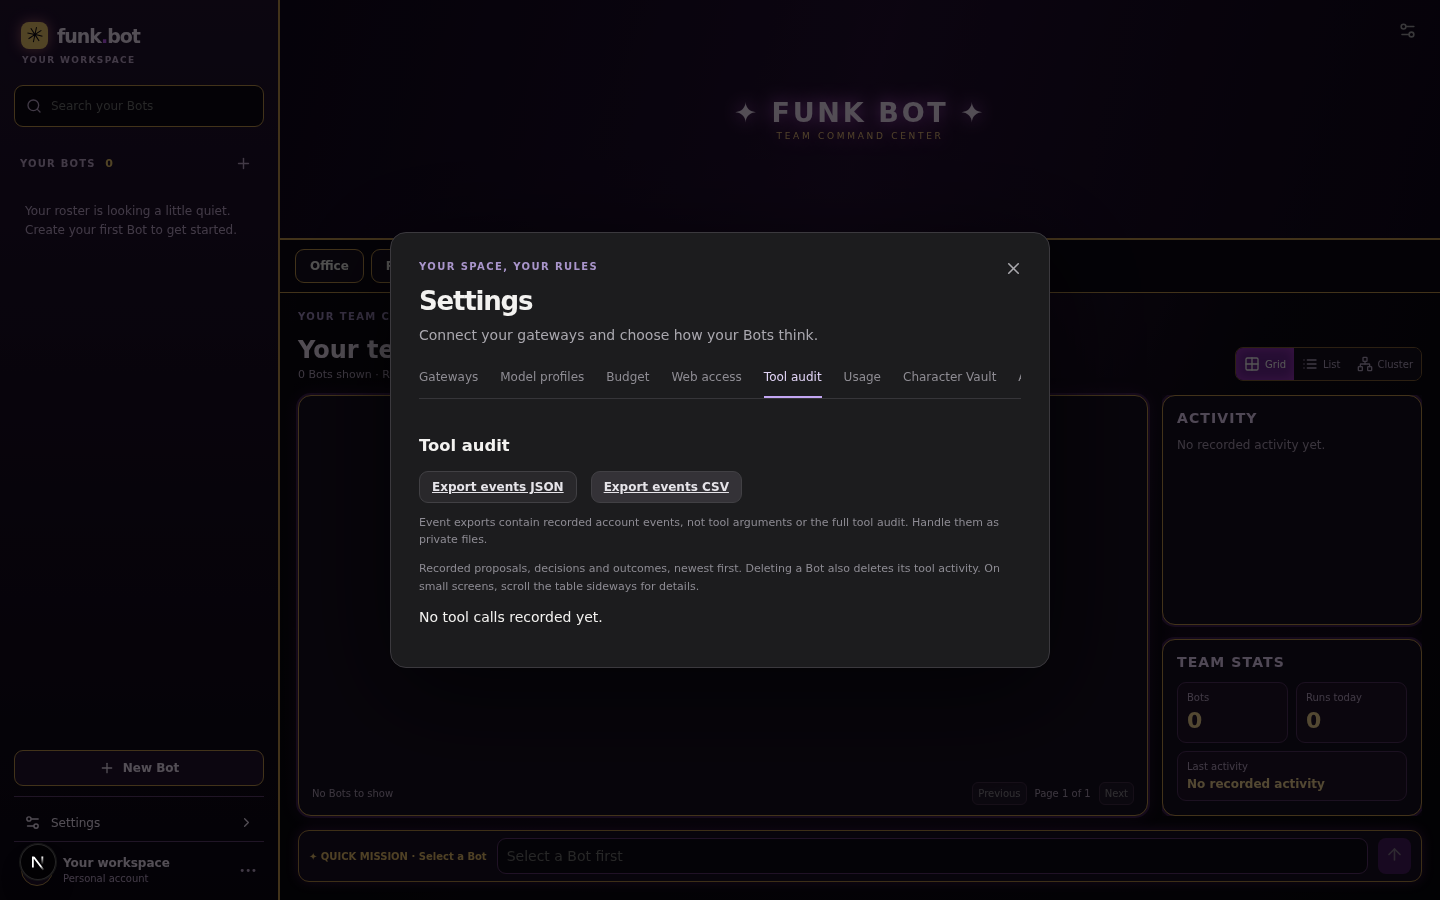
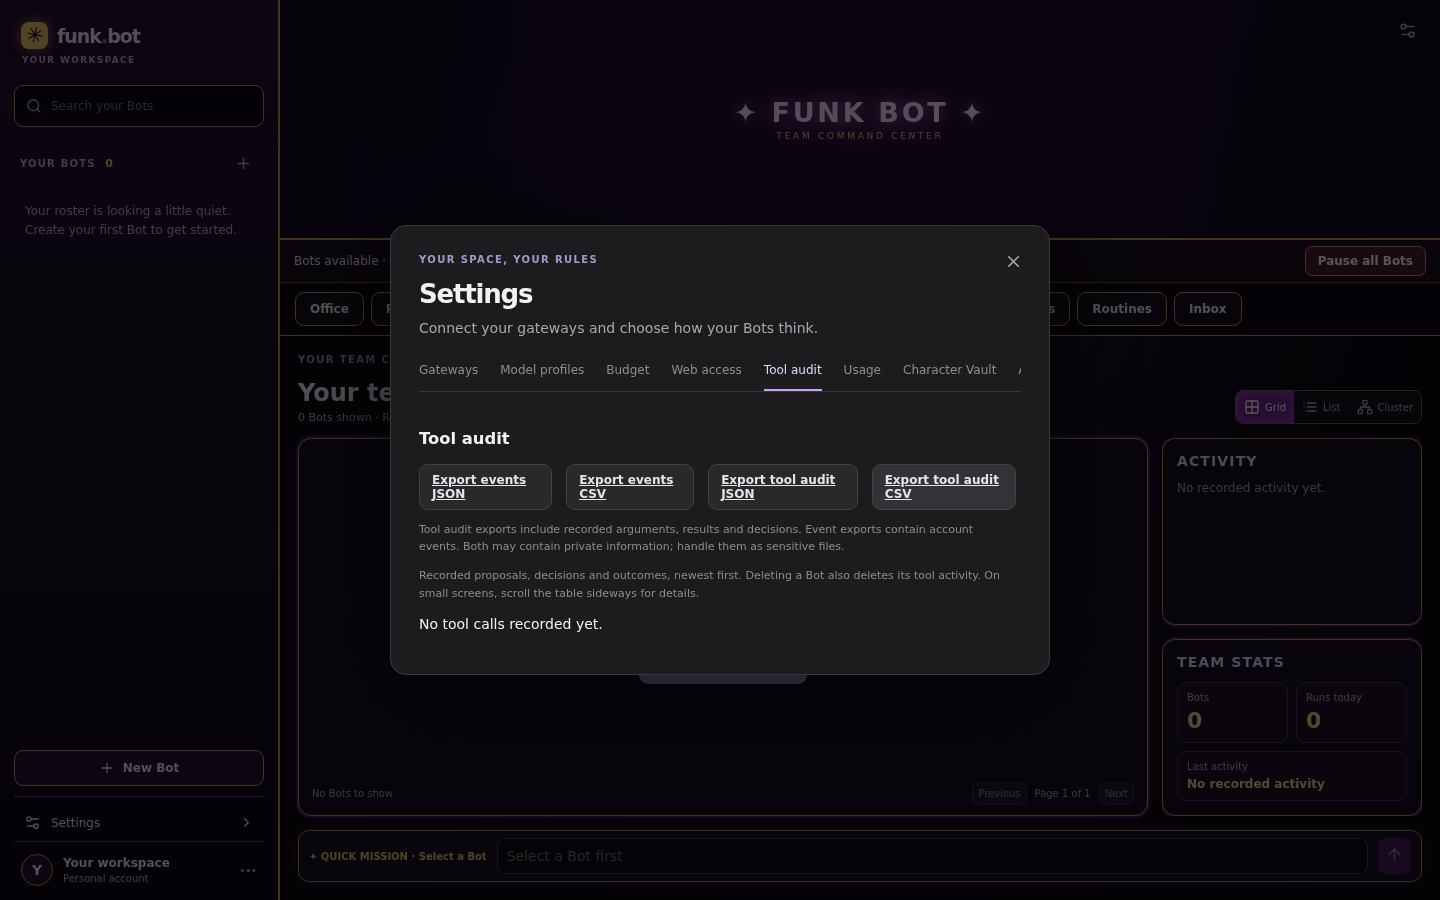
Export tool audit with decision history

diff --git a/frontend/components/team/ToolAuditSettings.tsx b/frontend/components/team/ToolAuditSettings.tsx
@@ -11,5 +11,5 @@ export default function ToolAuditSettings(){
  const [calls,setCalls]=useState<AuditCall[]>([]),[bots,setBots]=useState<TeamBot[]>([]),[next,setNext]=useState<number|null>(null),[loaded,setLoaded]=useState(false),[busy,setBusy]=useState(false),[error,setError]=useState('');
  useEffect(()=>{let active=true;Promise.all([request('/tool-audit'),request('/bots')]).then(([page,roster]:[Page,TeamBot[]])=>{if(active){setCalls(page.calls);setNext(page.next_before);setBots(roster);setLoaded(true)}}).catch(e=>{if(active)setError(e.message)});return()=>{active=false}},[]);
  async function more(){if(!next)return;setBusy(true);setError('');try{const page:Page=await request('/tool-audit?before='+next);setCalls(v=>[...v,...page.calls]);setNext(page.next_before)}catch(e){setError((e as Error).message)}finally{setBusy(false)}}
- return <div className="settings-body audit-settings"><h3>Tool audit</h3><div className="gateway-actions"><a className="secondary" href="/api/events/export?format=json" download>Export events JSON</a> <a className="secondary" href="/api/events/export?format=csv" download>Export events CSV</a></div><p className="field-hint">Event exports contain recorded account events, not tool arguments or the full tool audit. Handle them as private files.</p><p className="field-hint">Recorded proposals, decisions and outcomes, newest first. Deleting a Bot also deletes its tool activity. On small screens, scroll the table sideways for details.</p>{error&&<p className="error" role="alert">{error}</p>}{!loaded&&!error?<p>Loading tool audit…</p>:!calls.length?<p>No tool calls recorded yet.</p>:<><div className="audit-table-wrap"><table className="audit-table"><thead><tr><th>Bot</th><th>Tool</th><th>Status</th><th>Time</th><th>Details</th></tr></thead><tbody>{calls.map(call=>{const bot=bots.find(item=>item.id===call.bot_id);return <tr key={call.id}><td>{bot?<div className="budget-identity"><Avatar bot={bot} size="small"/><span><strong>{bot.name}</strong><small>{bot.title||'No job title'}</small></span></div>:<span>Deleted Bot</span>}</td><td>{call.tool_name}</td><td>{call.status}</td><td>{new Date(call.created_at*1000).toLocaleString()}</td><td><details><summary>View</summary><strong>Arguments</strong><pre>{JSON.stringify(call.arguments,null,2)}</pre>{call.result!=null&&<><strong>Result</strong><pre>{JSON.stringify(call.result,null,2)}</pre></>}<strong>Audit trail</strong><ul>{call.audit.map((entry,index)=><li key={index}>{entry.action.replaceAll('_',' ')} · {new Date(entry.created_at*1000).toLocaleString()}</li>)}</ul></details></td></tr>})}</tbody></table></div>{next&&<button className="secondary" disabled={busy} onClick={()=>void more()}>{busy?'Loading…':'Load older activity'}</button>}</>}</div>
+ return <div className="settings-body audit-settings"><h3>Tool audit</h3><div className="gateway-actions"><a className="secondary" href="/api/events/export?format=json" download>Export events JSON</a> <a className="secondary" href="/api/events/export?format=csv" download>Export events CSV</a> <a className="secondary" href="/api/tool-audit/export?format=json" download>Export tool audit JSON</a> <a className="secondary" href="/api/tool-audit/export?format=csv" download>Export tool audit CSV</a></div><p className="field-hint">Tool audit exports include recorded arguments, results and decisions. Event exports contain account events. Both may contain private information; handle them as sensitive files.</p><p className="field-hint">Recorded proposals, decisions and outcomes, newest first. Deleting a Bot also deletes its tool activity. On small screens, scroll the table sideways for details.</p>{error&&<p className="error" role="alert">{error}</p>}{!loaded&&!error?<p>Loading tool audit…</p>:!calls.length?<p>No tool calls recorded yet.</p>:<><div className="audit-table-wrap"><table className="audit-table"><thead><tr><th>Bot</th><th>Tool</th><th>Status</th><th>Time</th><th>Details</th></tr></thead><tbody>{calls.map(call=>{const bot=bots.find(item=>item.id===call.bot_id);return <tr key={call.id}><td>{bot?<div className="budget-identity"><Avatar bot={bot} size="small"/><span><strong>{bot.name}</strong><small>{bot.title||'No job title'}</small></span></div>:<span>Deleted Bot</span>}</td><td>{call.tool_name}</td><td>{call.status}</td><td>{new Date(call.created_at*1000).toLocaleString()}</td><td><details><summary>View</summary><strong>Arguments</strong><pre>{JSON.stringify(call.arguments,null,2)}</pre>{call.result!=null&&<><strong>Result</strong><pre>{JSON.stringify(call.result,null,2)}</pre></>}<strong>Audit trail</strong><ul>{call.audit.map((entry,index)=><li key={index}>{entry.action.replaceAll('_',' ')} · {new Date(entry.created_at*1000).toLocaleString()}</li>)}</ul></details></td></tr>})}</tbody></table></div>{next&&<button className="secondary" disabled={busy} onClick={()=>void more()}>{busy?'Loading…':'Load older activity'}</button>}</>}</div>
 }

diff --git a/backend/app.py b/backend/app.py
@@ -2509,6 +2509,50 @@ def account_tool_audit(request: Request, before: int | None = Query(default=None
     return {'calls':calls,'next_before':calls[-1]['cursor'] if len(rows)>20 else None}
 
 
+@app.get('/api/tool-audit/export')
+def export_tool_audit(request: Request, format: Literal['json','csv']='json', bot_id: str | None = Query(default=None,max_length=128)):
+    """Export persisted calls and their ordered decision histories from one snapshot."""
+    from funkbot.tool_audit import _redact_result
+    require_auth(request)
+    keys=configured_secrets()
+    def stream():
+        with db() as c:
+            c.execute('BEGIN')
+            rows=c.execute('SELECT * FROM tool_calls WHERE (? IS NULL OR bot_id=?) ORDER BY rowid',(bot_id,bot_id))
+            fields=['id','run_id','bot_id','tool_name','risk','arguments','status','result','created_at','updated_at','audit']
+            if format=='json':
+                yield '['
+            else:
+                buffer=io.StringIO(newline='');writer=csv.DictWriter(buffer,fieldnames=fields,lineterminator='\r\n')
+                writer.writeheader();yield buffer.getvalue();buffer.seek(0);buffer.truncate(0)
+            first=True
+            for row in rows:
+                call=dict(row)
+                call['arguments']=json.loads(call['arguments'])
+                call['result']=json.loads(call['result']) if call['result'] is not None else None
+                call['audit']=[dict(item) for item in c.execute('SELECT action,created_at FROM tool_audit WHERE call_id=? ORDER BY id',(call['id'],))]
+                # MCP embeds JSON arguments in a string. Parse it before redaction,
+                # so JSON escaping cannot hide newly configured secrets.
+                if call['tool_name']=='mcp_call' and isinstance(call['arguments'].get('arguments_json'),str):
+                    try:
+                        nested=json.loads(call['arguments']['arguments_json'])
+                        call['arguments']['arguments_json']=json.dumps(_redact_result(nested,lambda text:redact_text(text,keys)),ensure_ascii=False)
+                    except (ValueError,TypeError):
+                        # Invalid historical content is safer omitted than potentially exposed.
+                        call['arguments']['arguments_json']='[unavailable]'
+                call=_redact_result(call,lambda text:redact_text(text,keys))
+                if format=='json':
+                    yield ('' if first else ',')+json.dumps(call,ensure_ascii=False)
+                    first=False
+                else:
+                    for field in ('arguments','result','audit'):
+                        call[field]=json.dumps(call[field],ensure_ascii=False)
+                    writer.writerow({key:csv_safe(value) for key,value in call.items()})
+                    yield buffer.getvalue();buffer.seek(0);buffer.truncate(0)
+            if format=='json': yield ']'
+    return StreamingResponse(stream(),media_type='application/json' if format=='json' else 'text/csv',headers={'Content-Disposition':f'attachment; filename="funk-bot-tool-audit.{format}"','Cache-Control':'no-store','X-Content-Type-Options':'nosniff'})
+
+
 @app.get('/api/jobs/{job_id}/tool-calls')
 def job_tool_calls(job_id: str, request: Request):
     require_auth(request)

diff --git a/backend/tests/test_tool_endpoints.py b/backend/tests/test_tool_endpoints.py
@@ -69,3 +69,30 @@ def test_account_audit_pages_and_bot_delete_removes_its_recorded_activity(tmp_pa
         assert client.get('/api/tool-audit').json()['calls']==[]
         with service.db() as db:
             assert db.execute('SELECT COUNT(*) FROM tool_audit').fetchone()[0]==0
+
+
+def test_tool_audit_export_auth_snapshot_scope_redaction_and_csv(tmp_path):
+    import csv, io, json
+    from funkbot.tool_audit import propose
+    with TestClient(service.app) as client:
+        assert client.get('/api/tool-audit/export').status_code==401
+        setup(client);ctx,_=make_context(tmp_path)
+        secret='late-key-"with-escape-12345'
+        with service.db() as db:
+            call=propose(db,ctx.run_id,ctx.bot_id,'write_note',{'filename':'safe.txt','content':secret},lambda x:x)
+            db.execute('UPDATE tool_calls SET result=? WHERE id=?',(json.dumps({'sensitive':secret}),call))
+            db.execute('INSERT INTO tool_calls (id,run_id,bot_id,tool_name,risk,arguments,status,created_at,updated_at) VALUES (?,?,?,?,?,?,?,?,?)',
+                       ('=danger',ctx.run_id,ctx.bot_id,'mcp_call','send',json.dumps({'arguments_json':json.dumps({secret:secret})}),'denied',1,1))
+            db.execute('INSERT INTO tool_audit (call_id,action,created_at) VALUES (?,?,?)',('=danger','policy_denied',1))
+        client.put('/api/settings/gateways/openrouter',json={'url':'https://example.com/v1','key':secret})
+        response=client.get('/api/tool-audit/export',params={'bot_id':ctx.bot_id})
+        assert response.status_code==200 and response.headers['cache-control']=='no-store'
+        calls=response.json();assert len(calls)==2
+        assert calls[0]['arguments']['content']=='[redacted]' and calls[0]['result']['sensitive']=='[redacted]'
+        assert calls[0]['audit'][0]['action']=='proposed'
+        assert json.loads(calls[1]['arguments']['arguments_json'])=={'[redacted]':'[redacted]'}
+        assert client.get('/api/tool-audit/export?bot_id=other').json()==[]
+        csv_response=client.get('/api/tool-audit/export?format=csv')
+        rows=list(csv.DictReader(io.StringIO(csv_response.text)))
+        assert rows[1]['id']=="'=danger" and json.loads(rows[0]['audit'])[0]['action']=='proposed'
+        assert secret not in csv_response.text and client.get('/api/tool-audit/export?format=xml').status_code==422

diff --git a/COMPLIANCE.md b/COMPLIANCE.md
@@ -25,7 +25,7 @@ This is an honest snapshot, **not a parity or security certification**. None of 
 | 19 | Partial | Public web fetch uses host allow/deny policy and SSRF protections: `backend/funkbot/tools.py`, `backend/funkbot/tool_policy.py`, `backend/tests/test_tools_foundation.py`, `backend/tests/test_tool_policy.py`. Web search is not implemented. |
 | 20 | Partial | Owner-configurable policies for existing tools: web fetch auto/ask/deny and note/follow-up writes ask/deny (never automatic), with live tool and routine Inbox approvals and audited policy denials: `backend/funkbot/tool_runtime.py`, `backend/tests/test_tool_policies.py`, `frontend/components/team/ToolPolicySettings.tsx`, `frontend/scripts/tool-policies-e2e.mjs`. MCP calls are always individually approved and allowlisted; policy changes cannot stop an action already claimed. Computer tools are absent. |
 | 21 | Partial | Budget caps, Analytics, Lab and usage: `backend/tests/test_budget_chat.py`, `backend/tests/test_analytics.py`, `backend/tests/test_lab.py`. Routine and connector model rounds use existing model accounting; connector-side charges and computer accounting do not exist. |
-| 22 | Partial | Recorded tool audit, limited Bot activity and authenticated event JSON/CSV export: `backend/app.py`, `frontend/components/team/ToolAuditSettings.tsx`, `backend/tests/test_events.py`, `frontend/scripts/event-export-e2e.mjs`. Export is events only, not a full tool audit. Global pause blocks new work and stops current single-worker jobs: `backend/tests/test_pause.py`, `frontend/scripts/pause-e2e.mjs`; computer-specific kill controls do not exist; global pause cancels in-flight connector requests but cannot undo remote actions already accepted. |
+| 22 | Partial | Recorded tool audit, limited Bot activity and authenticated event and tool-audit JSON/CSV exports: `backend/app.py`, `frontend/components/team/ToolAuditSettings.tsx`, `backend/tests/test_events.py`, `backend/tests/test_tool_endpoints.py`, `frontend/scripts/event-export-e2e.mjs`. Exports contain sensitive data and redaction is not guaranteed. Global pause blocks new work and stops current single-worker jobs: `backend/tests/test_pause.py`, `frontend/scripts/pause-e2e.mjs`; computer-specific kill controls do not exist; global pause cancels in-flight connector requests but cannot undo remote actions already accepted. |
 | 23 | Partial | Installable manifest, private-data-free offline fallback, live in-app approval and completion notices: `frontend/public/manifest.webmanifest`, `frontend/public/sw.js`, `frontend/components/pwa/LiveNotices.tsx`, `frontend/scripts/pwa-e2e.mjs`. Chromium localhost tests passed; actual phone installation, HTTPS/LAN reachability and OS push are unverified or absent. |
 | 24 | Partial | Paused authenticated ZIP export of the SQLite snapshot, keys, banner, Vault and Bot workspaces, and validated non-destructive restore staging: `backend/funkbot/backup.py`, `backend/tests/test_backup.py`, `frontend/components/team/WorkspaceBackup.tsx`, `frontend/scripts/backup-e2e.mjs`. A staged local installation was started and authenticated; activation requires a manual restart/data-directory change, not one click. OmniRoute and unrecognized files are excluded; Compose restore unverified. Archives contain decryption keys and are not encrypted as a whole. |
 

diff --git a/README.md b/README.md
@@ -253,7 +253,7 @@ Import accepts UTF-8 `SKILL.md` files up to 32 KB in either a simple `#` title w
 
 ### Event export
 
-In **Settings → Tool audit**, export the recorded account event log as JSON or CSV. The authenticated export streams in event order and reapplies known-secret filtering, but no filter is complete. Exports are private and may include message summaries. CSV cells that resemble spreadsheet formulas are prefixed for safety. This is an event export, not a complete tool-audit export or workspace backup. Deleting a Bot deletes its event history.
+In **Settings → Tool audit**, export recorded events or tool calls and their decision histories as JSON or CSV. The authenticated exports stream in recorded order and reapply known-secret filtering, but no filter is complete. Exports are private and may include message summaries, tool arguments and results. CSV cells that resemble spreadsheet formulas are prefixed for safety. These are not workspace backups. Deleting a Bot deletes its event history and tool activity.
 
 ### Tool review policies
 
